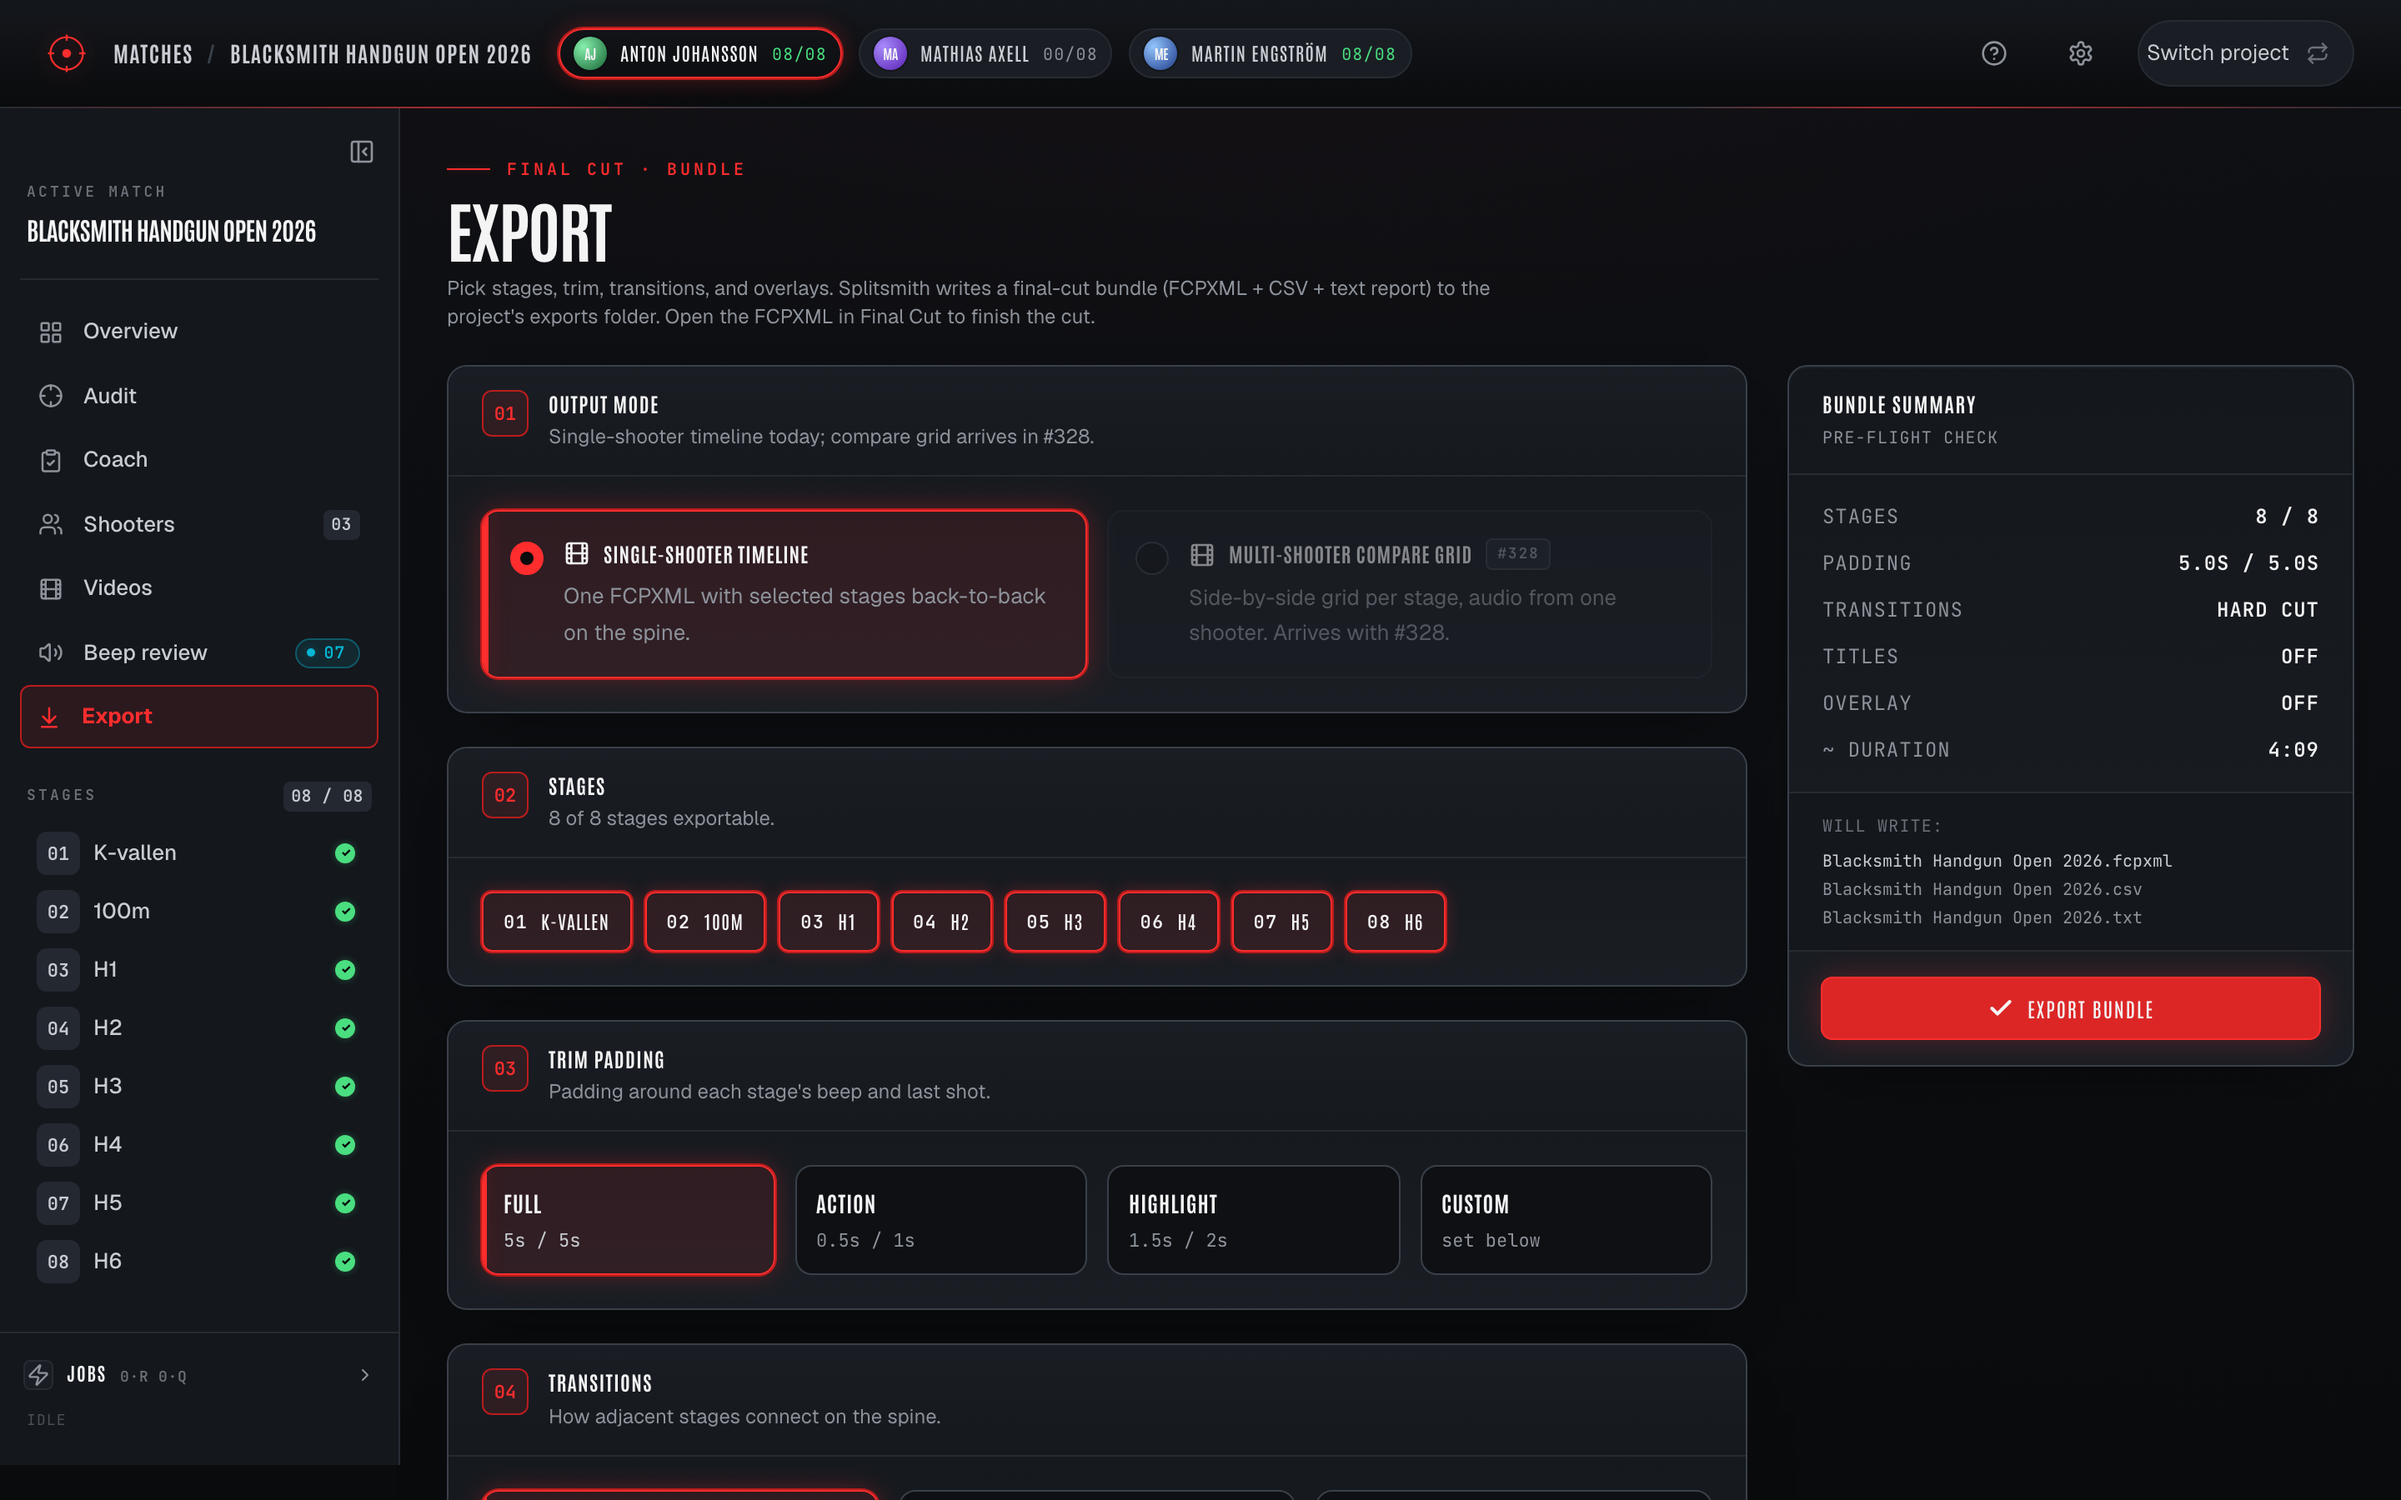
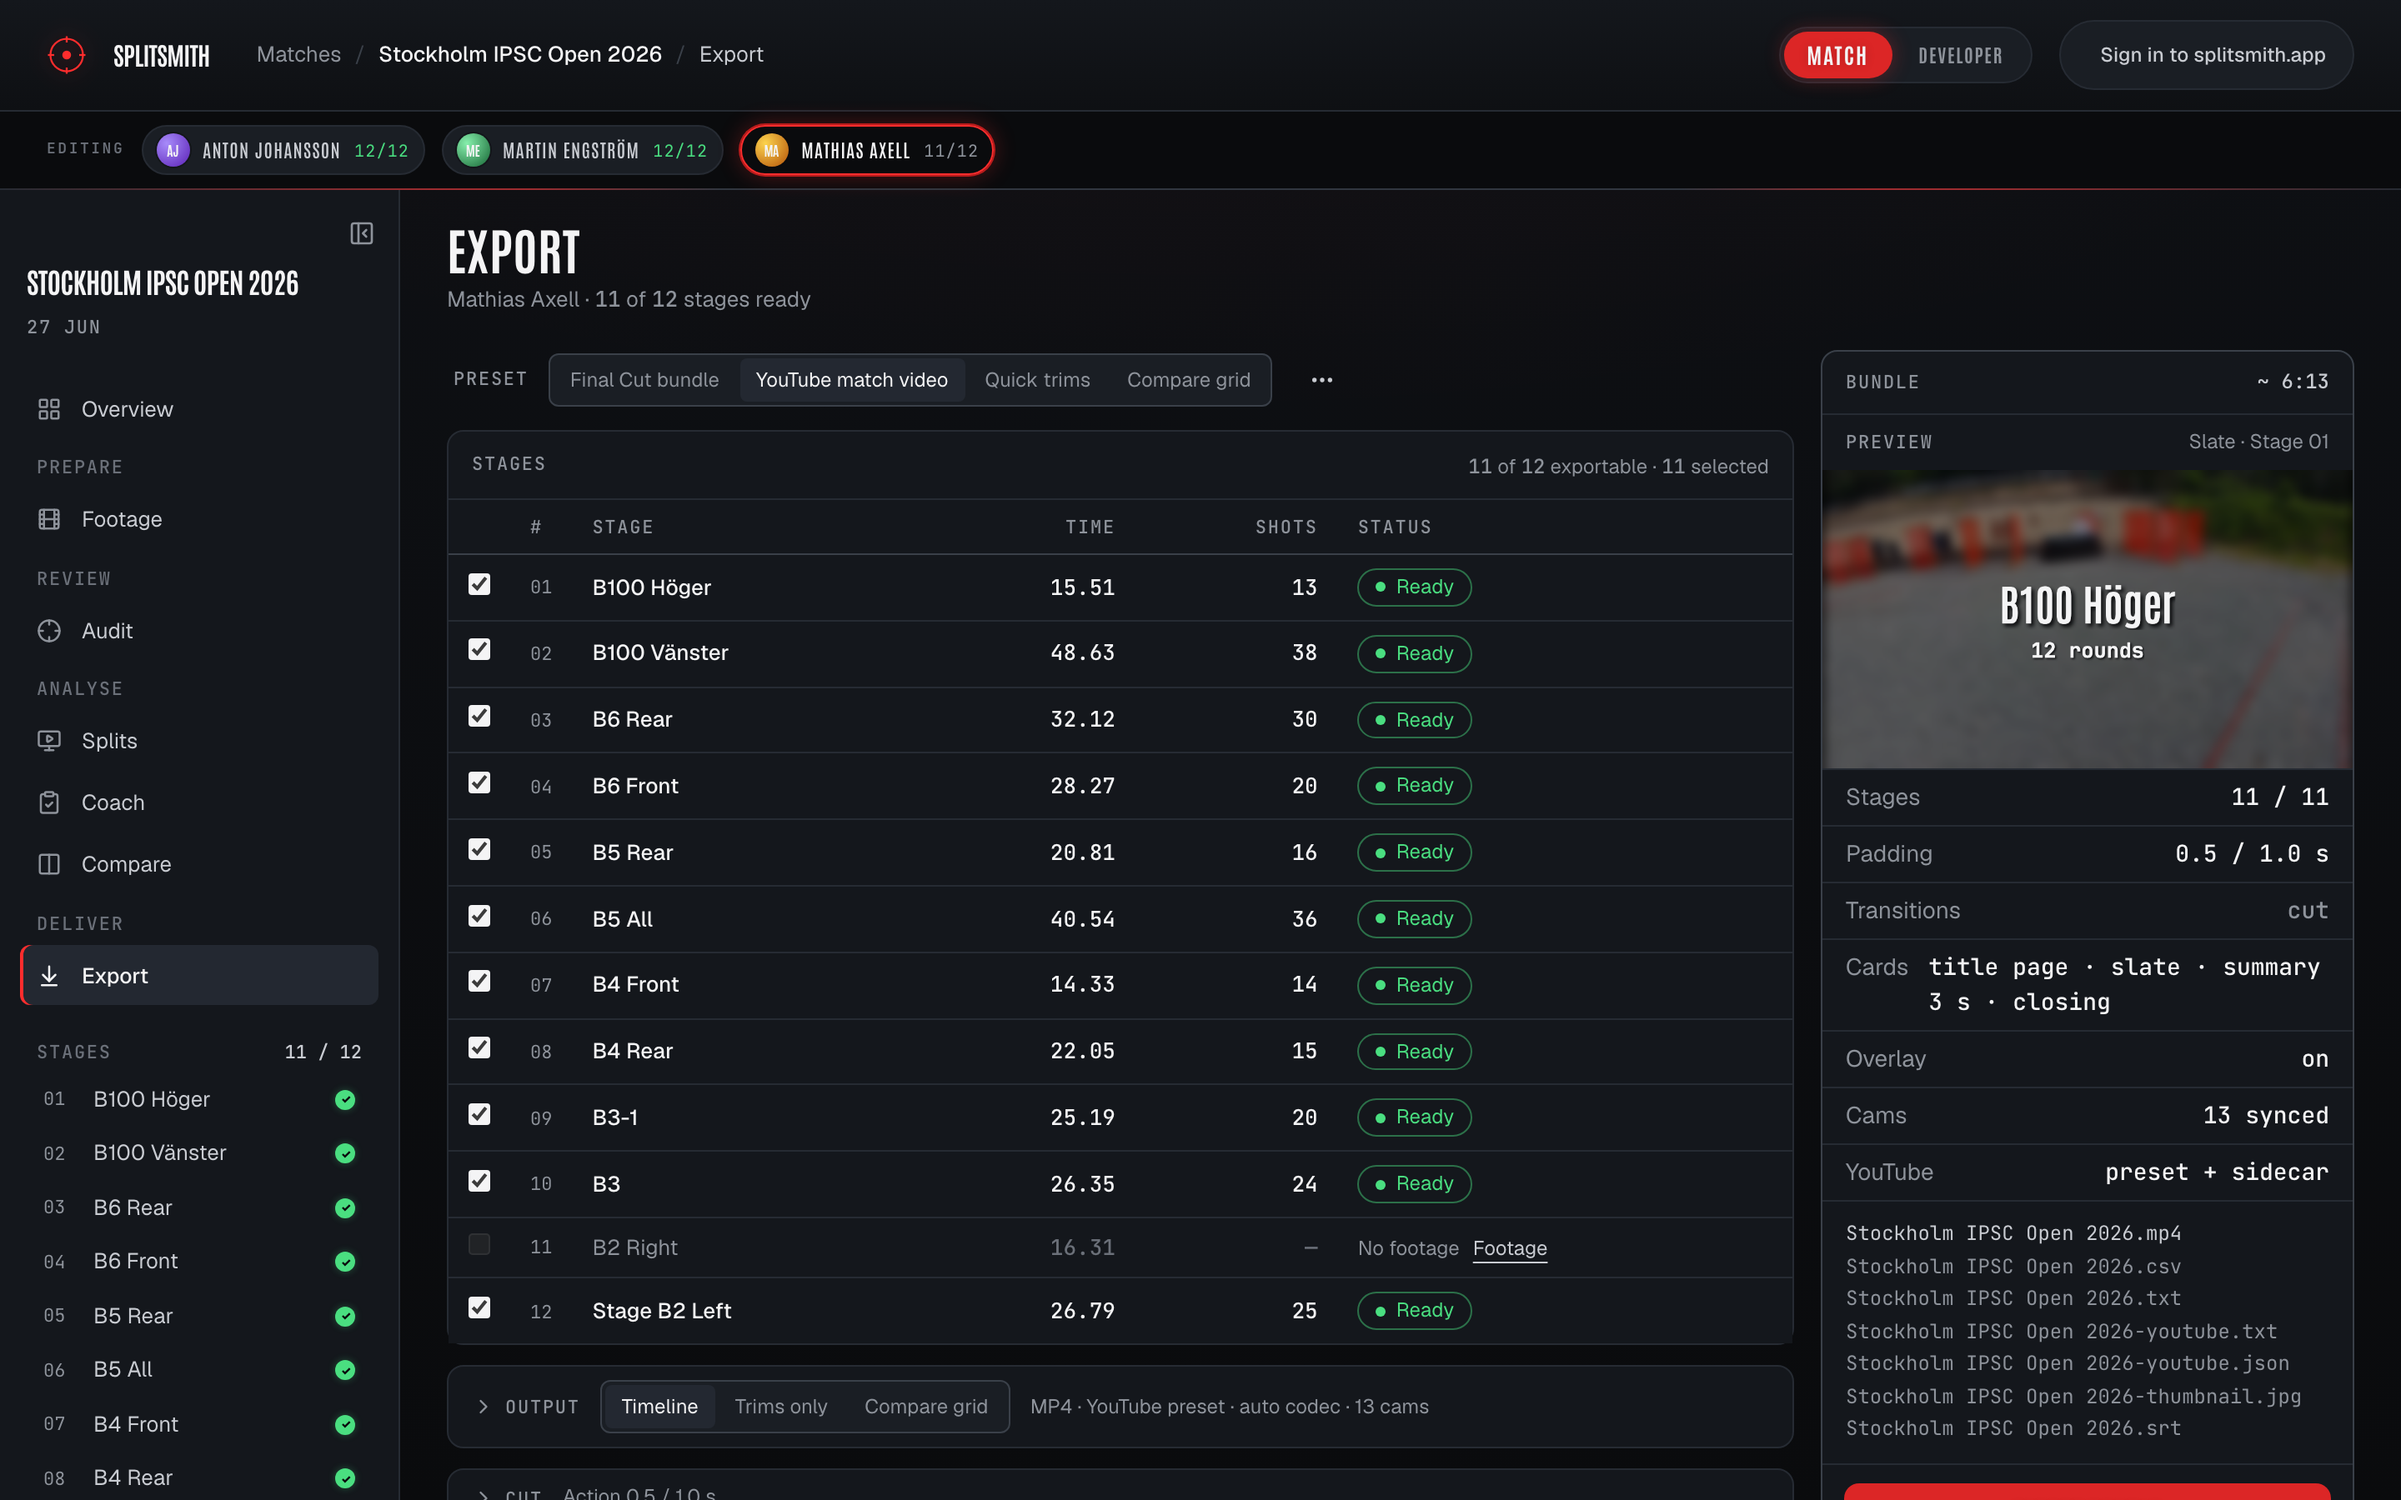
docs: export screenshots and copy for presets, the gallery and the preview (#1042)
Screenshots and marketing copy for the export redesign (#1038, #1040,
#1041).

- `docs/screenshots/export.png` (README gallery) and
`site/img/export.png` (the Deliver cell): the real Stockholm IPSC Open
2026 on the YouTube preset, Look open, the rail previewing the stage
slate over the shooter's own footage. Same framing as before (1440x900
at 2x; the site's 1200x782 crop).
- README: the gallery caption and the workflow step name presets, the
gallery and the preview.
- Site: the Deliver cell's heading, paragraph and alt text; two Outputs
bullets under Rendered MP4.
- One fix found while shooting: the preview built the audit trim's file
name itself and missed every trim cut under the pre-take-spec video id,
composing the card on the flat surface. It now goes through
`ui.audio.resolve_trim_for_read`, with a test for both id schemes.

🤖 Generated with [Claude Code](https://claude.com/claude-code)

https://claude.ai/code/session_01UPsQRSVVHhmAfdxcRSYrEv

---------

diff --git a/site/index.html b/site/index.html
@@ -322,8 +322,8 @@
       </div>
       <div class="cell shell c-export rv">
         <div class="core">
-          <div class="body"><span class="phase">Deliver &middot; Export</span><h3>Say why, or ship it</h3><p>A stage that cannot export says why in one line and offers the fix. The ones that can go out as a Final Cut timeline with a marker per shot, a rendered MP4 with the overlay burned in, a compare grid of the whole squad, or lossless trims. The MP4 can go straight to your YouTube channel.</p></div>
-          <div class="pic"><img src="img/export.png" width="1200" height="782" alt="The export page: output mode, the stage table with ready and blocked stages, options and the bundle summary" loading="lazy"></div>
+          <div class="body"><span class="phase">Deliver &middot; Export</span><h3>Pick a look, see it on your footage</h3><p>Start from a preset or save your own, then choose the look from a gallery: title page, slates, the summary hold, the shot counter, each previewed on your own footage before you render. A stage that cannot export says why in one line and offers the fix. Out come a Final Cut timeline with a marker per shot, a rendered MP4 with the overlay burned in, a compare grid of the whole squad, or lossless trims. The MP4 can go straight to your YouTube channel.</p></div>
+          <div class="pic"><img src="img/export.png" width="1200" height="782" alt="The export page: the Look gallery with a tile per card and effect, and the rail previewing the stage slate over the shooter's own footage" loading="lazy"></div>
         </div>
       </div>
     </div>
@@ -348,7 +348,7 @@
       <div class="way shell rv d2"><div class="core">
         <span class="k">Rendered MP4</span><h3>Ready to post</h3>
         <p class="muted" style="font-size:14px">A finished cut with the shot counter and splits burned in, a title page and a stage card, or every shooter in one beep-aligned grid.</p>
-        <ul><li>Alpha overlay with the shot clock</li><li>Compare grid with a mixed squad track</li><li>Upload to YouTube from the app: chapters, captions and thumbnail, into a playlist, scheduled if you like</li></ul>
+        <ul><li>Presets for the whole export, yours or the built-in four</li><li>The look from a gallery, previewed on your footage</li><li>Alpha overlay with the shot clock</li><li>Compare grid with a mixed squad track</li><li>Upload to YouTube from the app: chapters, captions and thumbnail, into a playlist, scheduled if you like</li></ul>
       </div></div>
     </div>
   </section>

diff --git a/src/splitsmith/export_preview.py b/src/splitsmith/export_preview.py
@@ -41,6 +41,7 @@ from .overlay_still import letterbox
 from .overlay_summary_cell import build_summary_still
 from .overlay_theme import OverlayTheme
 from .stage_summary_data import TileShot, TileStageData, load_stage_shots
+from .ui.audio import resolve_trim_for_read
 from .ui.match_exports import title_info_lines
 
 logger = logging.getLogger(__name__)
@@ -163,13 +164,14 @@ def _trim_for(project: MatchProject, root: Path, stage_number: int) -> tuple[Pat
         return None, 0.0
     beep = min(project.trim_pre_buffer_seconds, primary.beep_time)
     base = stage_file_base(stage_number, stage.stage_name)
-    for candidate in (
-        project.exports_path(root) / f"{base}_trimmed.mp4",
-        project.trimmed_path(root) / f"stage{stage_number}_cam_{primary.video_id}_trimmed.mp4",
-    ):
-        if candidate.exists():
-            return candidate, beep
-    return None, beep
+    lossless = project.exports_path(root) / f"{base}_trimmed.mp4"
+    if lossless.exists():
+        return lossless, beep
+    # The audit trim, through the one resolver that also knows the
+    # pre-take-spec legacy file names; building the name here would miss
+    # every trim cut before the video ids changed.
+    audit_trim = resolve_trim_for_read(root, stage_number, primary, project=project)
+    return audit_trim, beep
 
 
 def _shots(audit_doc: dict | None, work_dir: Path) -> tuple[TileShot, ...]:

diff --git a/tests/test_export_preview.py b/tests/test_export_preview.py
@@ -168,6 +168,26 @@ def test_overlay_draws_the_last_shot_and_needs_shots(tmp_path: Path) -> None:
     assert info.value.status == 409
 
 
+def test_trim_lookup_finds_the_lossless_trim_then_the_audit_trim_under_either_id(tmp_path: Path) -> None:
+    """Trims cut before the take spec carry the path-only video id; the
+    engine goes through ``ui.audio``'s resolver, which knows both."""
+    project, root = _project(tmp_path)
+    primary = project.stage(3).primary()
+    assert primary is not None
+    assert ep._trim_for(project, root, 3) == (None, 5.0)
+    legacy = project.trimmed_path(root) / f"stage3_cam_{primary.legacy_video_id}_trimmed.mp4"
+    legacy.parent.mkdir(parents=True)
+    legacy.write_bytes(b"\x00")
+    assert ep._trim_for(project, root, 3)[0] == legacy
+    current = project.trimmed_path(root) / f"stage3_cam_{primary.video_id}_trimmed.mp4"
+    current.write_bytes(b"\x00")
+    assert ep._trim_for(project, root, 3)[0] == current
+    lossless = project.exports_path(root) / "stage3_standards_trimmed.mp4"
+    lossless.parent.mkdir(parents=True)
+    lossless.write_bytes(b"\x00")
+    assert ep._trim_for(project, root, 3)[0] == lossless
+
+
 def test_unknown_stage_is_404(tmp_path: Path) -> None:
     with pytest.raises(ep.PreviewError) as info:
         _render(tmp_path, ep.PreviewSpec(card="frame", stage_number=9), audit=None)

diff --git a/README.md b/README.md
@@ -22,7 +22,7 @@ Built to do two things from a single stage video: get per-shot splits for analys
 | ![beep review](https://raw.githubusercontent.com/mandakan/splitsmith/main/docs/screenshots/beep-review.png) | **Beep review.** Auto-snap to the start beep on each stage; low-confidence detections land in a HITL queue. |
 | ![audit](https://raw.githubusercontent.com/mandakan/splitsmith/main/docs/screenshots/audit.png) | **Audit.** Waveform + per-shot markers from the 3-voter ensemble. Click a marker to inspect votes; drag to fine-tune. |
 | ![compare](https://raw.githubusercontent.com/mandakan/splitsmith/main/docs/screenshots/compare.png) | **Compare.** Multi-shooter grid, all beep-aligned to t=0. Audio from one shooter, video tiles for everyone else. |
-| ![export](https://raw.githubusercontent.com/mandakan/splitsmith/main/docs/screenshots/export.png) | **Export.** Per-stage or whole-match FCPXML. Open in Final Cut Pro, M / Shift+M to navigate markers. |
+| ![export](https://raw.githubusercontent.com/mandakan/splitsmith/main/docs/screenshots/export.png) | **Export.** Pick a preset (Final Cut bundle, YouTube match video, quick trims, compare grid) or save your own. Every card and effect is a tile, previewed on your own footage before you render. FCPXML with a marker per shot, or a rendered MP4 straight to YouTube. |
 
 > Screenshots regenerate from a live `splitsmith ui` via `scripts/capture_screenshots.py`. See [Regenerating screenshots](#regenerating-screenshots) below.
 
@@ -74,7 +74,7 @@ The repo ships a real Stage 3 audio sample at `tests/fixtures/stage-shots-tallmi
 1. **Ingest** -- point at a folder of raw cam files; `splitsmith ui` auto-matches them to scoreboard stages by file timestamp.
 2. **Beep review** -- the detector finds the start beep on each stage; anything below the auto-trust threshold lands in a HITL queue.
 3. **Audit** -- the 3-voter ensemble (envelope onsets + CLAP prompts + GBDT over hand-crafted + PANN features) emits shot times; review the waveform and drag / drop markers to fix outliers.
-4. **Export** -- generate a per-stage FCPXML (markers per shot) or a multi-shooter Compare FCPXML (beep-aligned grid). Splits CSV ships alongside for the cull workflow.
+4. **Export** -- pick a preset or save your own, choose the look from a gallery previewed on your footage, and generate a per-stage or whole-match FCPXML (markers per shot), a rendered MP4, or a multi-shooter Compare grid. Splits CSV ships alongside for the cull workflow.
 
 How the pieces fit -- system architecture, the per-stage detection job chain, the stage status lifecycle, the share-link request path and the hosted data model -- is drawn in [`docs/architecture/DIAGRAMS.md`](docs/architecture/DIAGRAMS.md) (renders inline on GitHub; interactive versions alongside).
 
